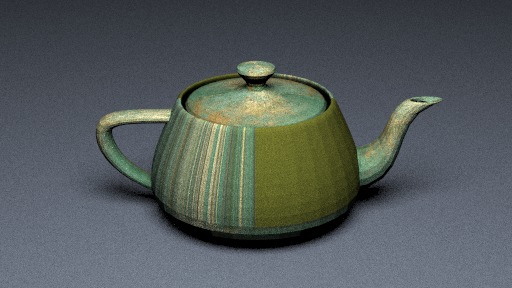
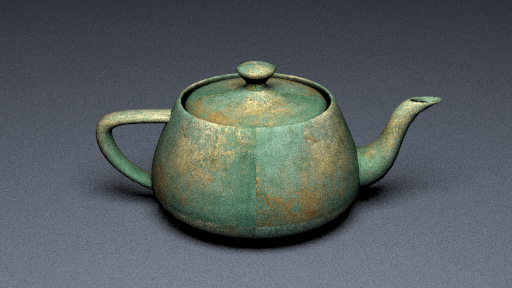
Fix bad triangle uv mapping when texture is repeating

diff --git a/core/src/utilities/uvmapping.cpp b/core/src/utilities/uvmapping.cpp
@@ -299,6 +299,13 @@ vector2 calculateTextureCoordinate(vector2 uv0, vector2 uv1, vector2 uv2, const 
 {
 	double u = (barycentricCoords.x * uv0.x + barycentricCoords.y * uv1.x + (1.0f - barycentricCoords.x - barycentricCoords.y) * uv2.x);
 	double v = (barycentricCoords.x * uv0.y + barycentricCoords.y * uv1.y + (1.0f - barycentricCoords.x - barycentricCoords.y) * uv2.y);
+
+	// Apply texture repeat (wrap) behavior
+	u = std::fmod(u, 1.0);
+	v = std::fmod(v, 1.0);
+	if (u < 0.0) u += 1.0;
+	if (v < 0.0) v += 1.0;
+
 	return vector2(u, v); // Return texture coordinates
 }
 

diff --git a/core/src/main.cpp b/core/src/main.cpp
@@ -71,6 +71,8 @@ Singleton* Singleton::getInstance()
 /// https://github.com/gbrsouza/RayTracer/blob/master/src/orthographic_camera.cpp
 /// https://github.com/Julien-Verdun/Ray-Tracing?tab=readme-ov-file#correctiongamma
 
+/// Unwrapping a teapot : https://www.youtube.com/watch?v=skVZQhOJq8U
+
 /// </summary>
 /// <param name="argc"></param>
 /// <param name="argv"></param>

diff --git a/core/src/primitives/triangle.cpp b/core/src/primitives/triangle.cpp
@@ -98,7 +98,7 @@ bool triangle::hit(const ray& r, interval ray_t, hit_record& rec, int depth) con
     rec.hit_point = r.at(t);
     rec.mat = mat_ptr;
 
-    rec.front_face = true;
+    //rec.front_face = true;
     vector3 normal = middle_normal;
     
     if (smooth_normals)
